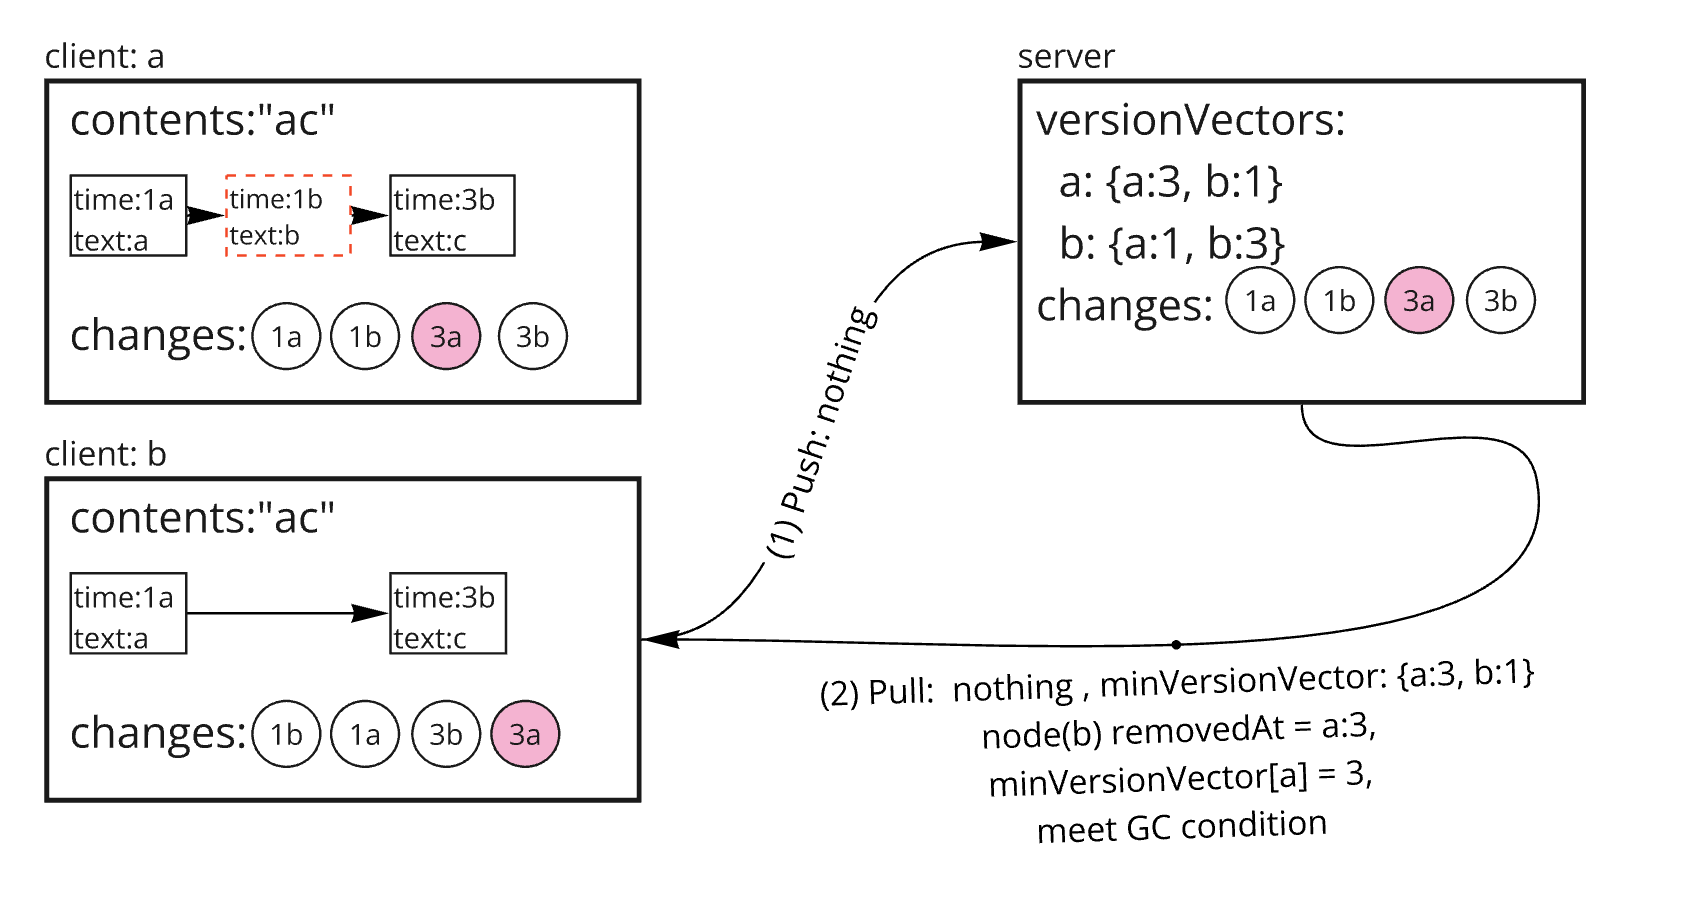
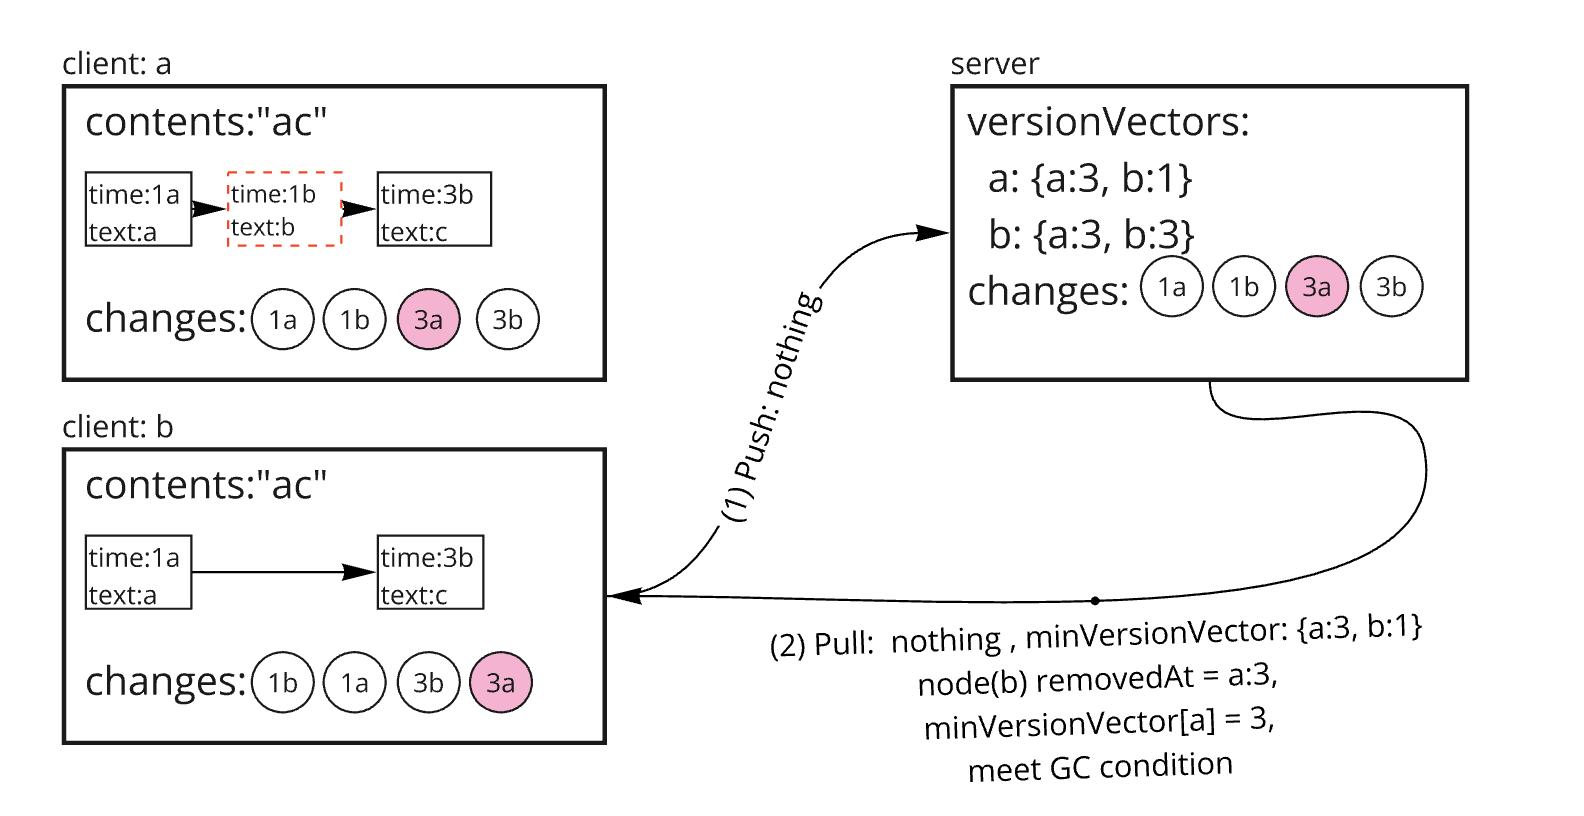
Updated explanation based on review feedback

diff --git a/design/garbage-collection.md b/design/garbage-collection.md
@@ -37,7 +37,7 @@ As you can see from the image above, `min_synced_seq` doesn't guarantee every cl
 
 Garbage collection checks that deleted nodes are no longer referenced remotely and purges them completely.
 
-Server records the version vector of the last change pulled by the client whenever the client requests PushPull. And Server returns the vin version vector, `minVersionVector` of all clients in response PushPull to the client. `minVersionVector` is used to check whether deleted nodes are no longer to be referenced remotely or not.
+Server records the version vector of the last change pulled by the client whenever the client requests PushPull. And Server returns the min version vector, `minVersionVector` of all clients in response PushPull to the client. `minVersionVector` is used to check whether deleted nodes are no longer to be referenced remotely or not.
 
 ### What is `minVersionVector`
 Min version vector is the vector which consists of minimum value of every version vector stored in version vector table in database.
@@ -91,7 +91,7 @@ Meanwhile, `client b` inserts `"c"` after textnode `"b"`.
 
 ![garbage-collection-4](media/garbage-collection-4.png)
 
-`Client a` pushpull but nothing to push or pull. `minVersionVector` is still `{a:1, b:1}`, so no GC happens.
+`Client a` pulls change `3b` from Server. `minVersionVector` is still `{a:1, b:1}`, so no GC happens.
 
 #### State 5
 
@@ -145,14 +145,14 @@ But it causes n+1 query problem to remove lamport from db.versionVector. So we c
 ```
 // initial state
 db.versionVector = {
-    c2: {c1:3, c2:4, c3: 5},
-    c3: {c1:3, c2:3, c3: 6}
+    c1: {c1:3, c2:4, c3: 5},
+    c2: {c1:3, c2:3, c3: 6}
 }
-min(c2.vv, c3.vv) = min({c1:3, c2:4, c3: 5}, {c1:3, c2:3, c3:5}) = 
+min(c1.vv, c2.vv) = min({c1:3, c2:4, c3: 5}, {c1:3, c2:3, c3:5}) = 
 {c1:3, c2:3, c3:5}
-c2, c3 are acitve(attached).
+c1, c2 are acitve(attached).
 
-minVersionVector = {c1:3, c2:3, c3:5}.Filter([c1]) = {c2:3, c3:5}
+minVersionVector = {c1:3, c2:3, c3:5}.Filter([c1]) = {c1:3, c2:3}
 ```
 
 After client receive this minVersionVector, it will filter its version vector to remove detached client's lamport.
